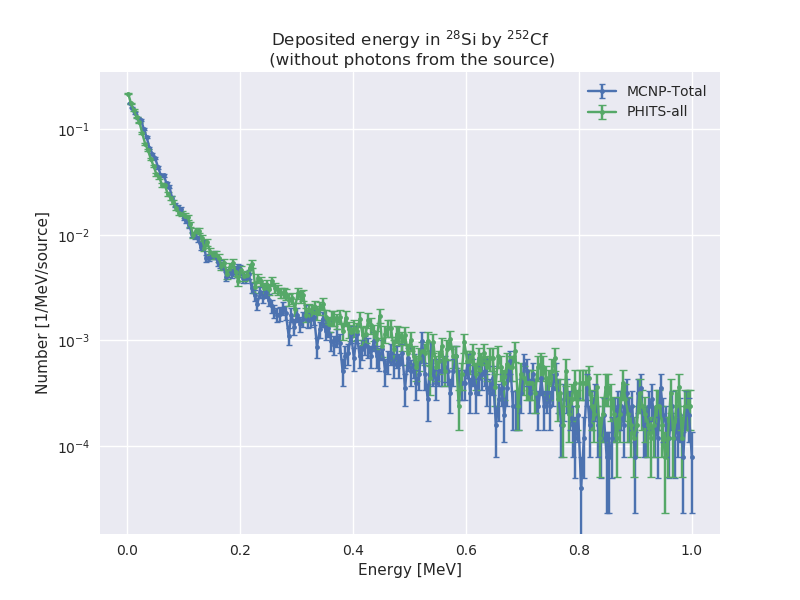
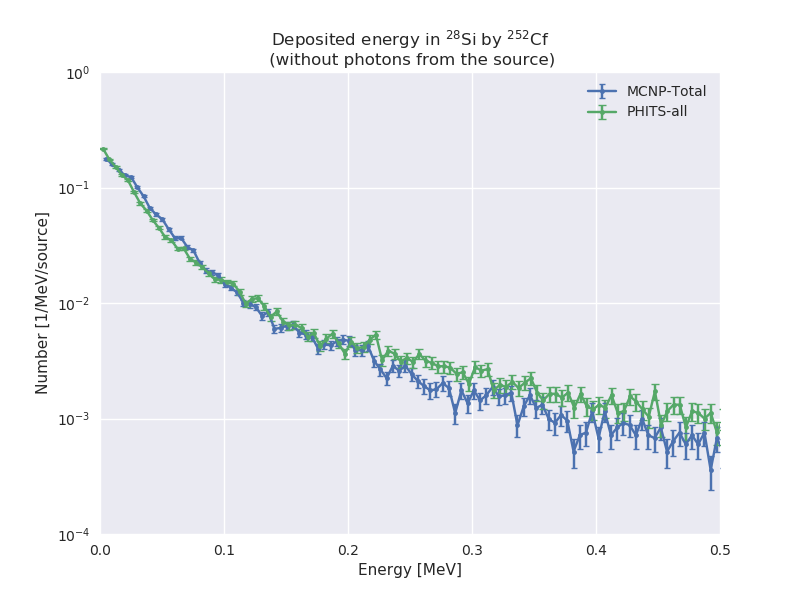
zoom en zona de interes

diff --git a/experimento_skccd/grafica_depo.py b/experimento_skccd/grafica_depo.py
@@ -78,7 +78,8 @@ if __name__ == '__main__':
     ax.set_yscale('log')
     ax.set_xlabel('Energy [MeV]')
     ax.set_ylabel('Number [1/MeV/source]')
-    # ax.set_ylim(1e-7, 1e3)
+    ax.set_ylim(1e-4, 1e0)
+    ax.set_xlim(1e-7, 5e-1)
     ax.legend()
 
     title_str = 'Deposited energy in $^{28}$Si by $^{252}$Cf'
